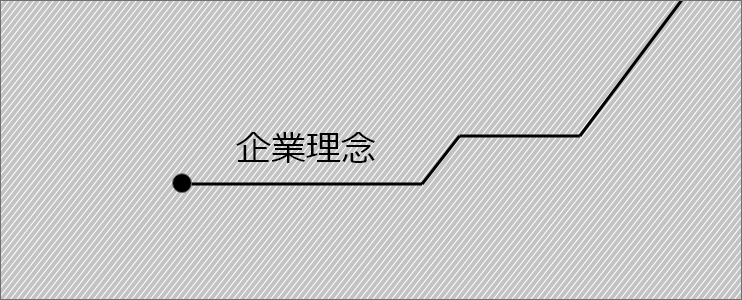
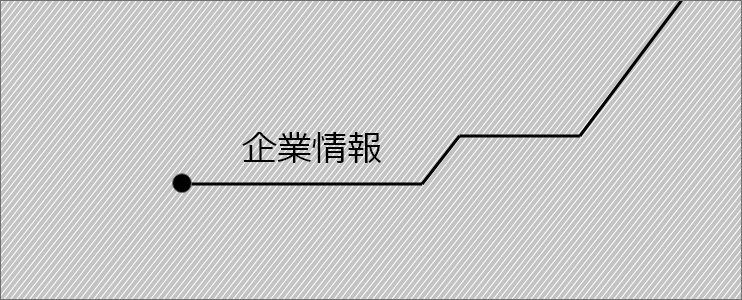
edit

Changed region(s): [[0.31, 0.42, 0.527, 0.54]]

diff --git a/企業情報/index.html b/企業情報/index.html
@@ -43,7 +43,7 @@
         <div class="col-lg-6 card-odd">
           <a href="" title="">
           <div class="block-img">
-            <img src="img/news.png" alt="">
+            <img src="img/企業理念左上.png" alt="">
           </div>
           </a>
             <div class="block">
@@ -56,12 +56,12 @@
         <div class="col-lg-6">
           <a href="" title="">
             <div class="block-img">
-              <img src="img/news.png" alt="">
+              <img src="img/企業理念右上.png" alt="">
             </div>
           </a>
             <div class="block">
               <a href="" title="">
-                <h4>企業理念</h4>
+                <h4>代表挨拶</h4>
               </a>
                 <p>テキストテキストテキストテキスト</p>
             </div>
@@ -71,12 +71,12 @@
         <div class="col-lg-6 card-odd">
           <a href="" title="">
             <div class="block-img">
-              <img src="img/news.png" alt="">
+              <img src="img/企業理念左下.png" alt="">
             </div>
           </a>
             <div class="block">
               <a href="" title="">
-                <h4>企業理念</h4>
+                <h4>会社概要</h4>
               </a>
               <p>テキストテキストテキストテキスト</p>
             </div>
@@ -84,12 +84,12 @@
         <div class="col-lg-6">
           <a href="" title="">
             <div class="block-img">
-              <img src="img/news.png" alt="">
+              <img src="img/企業理念右下.png" alt="">
             </div>
           </a>
             <div class="block">
               <a href="" title="">
-                <h4>企業理念</h4>
+                <h4>沿革</h4>
               </a>
               <p>テキストテキストテキストテキスト</p>
             </div>

diff --git a/サービス/index.html b/サービス/index.html
@@ -51,7 +51,7 @@
         <div class="col-lg-6">
           <div class="service-card-top service-card">
             <a href="" title="">
-              <img class="service-card-img" src="img/news.png" alt="ロゴ" />
+              <img class="service-card-img" src="img/サービス上.png" alt="ロゴ" />
             </a>
             <h3><a href="" title="">サービス名</a></h3>
             <p>
@@ -66,7 +66,7 @@
         <div class="col-lg-6">
           <div class="service-card">
             <a href="" title="">
-              <img class="service-card-img" src="img/news.png" alt="ロゴ" />
+              <img class="service-card-img" src="img/サービス下.png" alt="ロゴ" />
             </a>
             <h3><a href="" title="">サービス名</a></h3>
             <p>

diff --git a/サービス/style.css b/サービス/style.css
@@ -226,7 +226,7 @@ footer {
 }
 .service-card-img {
   width: 577px;
-  height: 529px;
+  height: 450px;
 }
 
 .service-card h3 {
